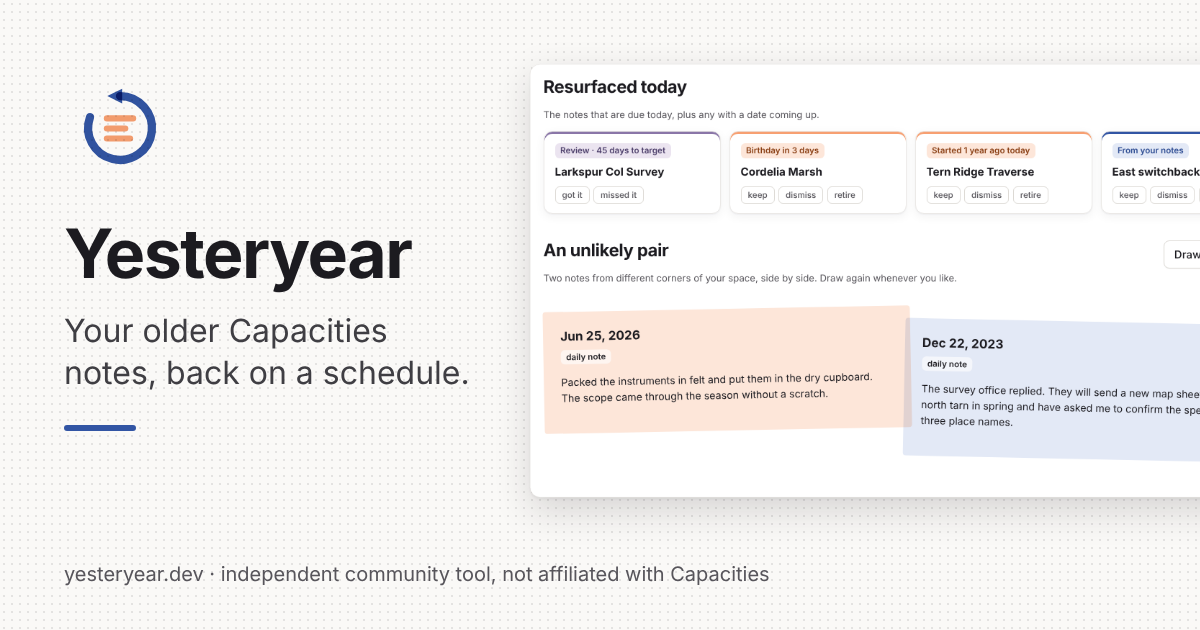
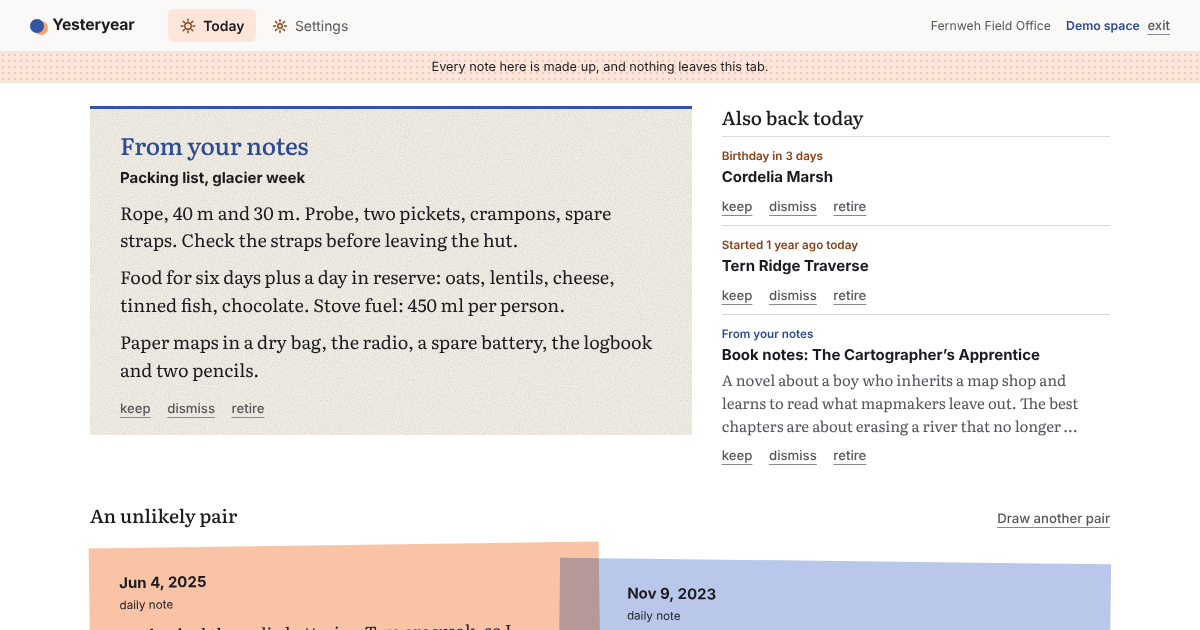
Retake the screenshots from the demo, with a script, and update the docs
Claude-Session: https://claude.ai/code/session_01GMmJz5doasHHswutde8X8S

diff --git a/README.md b/README.md
@@ -4,7 +4,7 @@
 
 **Your older Capacities notes, back on a schedule.**
 
-![Today in the synthetic Fernweh Field Office demo: four resurfaced notes with tinted source labels, and an unlikely pair shown as two overlapping prints in blue and apricot. A banner at the top says every note is made up.](docs/today.png)
+![Today in the made-up Fernweh Field Office demo: one resurfaced note set as a printed page with its text readable, the day's other notes beside it, and an unlikely pair shown as two overlapping prints in blue and apricot. A banner at the top says every note is made up.](docs/today.png)
 
 > **Disclaimer:** Yesteryear is an independent community tool. It is not
 > affiliated with, endorsed by, or sponsored by Capacities. Capacities is a
@@ -15,7 +15,7 @@ Notes go into Capacities easily and rarely come back out. Yesteryear reads your 
 - Notes you tag as worth seeing again return when they are due, a month or six months later.
 - Notes tied to a real date, like a talk or an exam, return more often as it gets closer.
 - Each day you also get one unlikely pair: two notes from different corners of your space, side by side.
-- Date views are extra ways to look back: on this day across the years, birthdays and project dates.
+- Dates are extra ways to look back: the same day in earlier years, birthdays and project dates.
 
 The daily mix draws partly at random, because a calendar can only bring back notes that already share a date.
 
@@ -41,7 +41,7 @@ No type ID, property ID or tag name is hardcoded. Yesteryear reads what your spa
 
 On your first visit, Yesteryear reads your types, date and status properties and tags, and offers what it found, such as "Your projects are Project" or "Birthdays come from Birthday". Names it recognises start ticked, and a guess from the shape of a type says so and starts unticked. Nothing changes without a tick, and anything you have already mapped is left alone.
 
-Anything you don't map is skipped. A space with nothing set up still gets On This Day, because every space has daily notes. If a name in your settings is missing from your space, the error says what was missing and lists what your space has.
+Anything you don't map is skipped. A space with nothing set up still gets the same day in earlier years, because every space has daily notes. If a name in your settings is missing from your space, the error says what was missing and lists what your space has.
 
 ## What you need in Capacities
 
@@ -49,21 +49,21 @@ Nothing. Daily notes alone are enough to start, and every space has them. A few 
 
 - **Projects with dates** bring anniversaries and target-date reminders. In Capacities, open **Settings → Object Types**, choose **+ New Type**, and pick a prebuilt type such as Project, or create your own.
 - **People with a birthday** bring birthday reminders. A type with a date property for the birthday is enough.
-- **Tags** mark the notes worth seeing again. Tag a note in Capacities and it appears under Recall.
+- **Tags** mark the notes worth seeing again. Tag a note in Capacities and it joins the schedule, listed under **What is coming** on Today.
 - **A type with no date?** Open the type's settings, choose **Add property**, and add a date.
 
 ## Getting started
 
 1. Open the site and click **Connect to Capacities**, or **Try the demo** first. The demo runs on a made-up space and needs no account.
 2. Approve access and pick which space to share. That choice happens on the Capacities side.
-3. The first time, you see what Yesteryear found in your space and tick what looks right. Then you land on **Today**: the day's resurfaced notes, with an unlikely pair underneath. It works with no setup, because daily notes alone are enough.
+3. The first time, you see what Yesteryear found in your space and tick what looks right. Then you land on **Today**: one resurfaced note you can read, the day's other notes, an unlikely pair, and the same day in earlier years. It works with no setup, because daily notes alone are enough.
 ![The first screen on a synthetic space: the projects and people it found, each with a tick and a line about what it is used for.](docs/setup.png)
 
-4. Each schedule has its own page: **Recall** helps you pick resurfacing tags, and **Learn** turns on with one click and holds your study sets. **Settings** holds the full mapping.
-5. Open **Preview** to see what tomorrow would bring back, before anything is written.
+4. There are two pages. **What is coming**, at the foot of Today, lists the schedule and helps you pick resurfacing tags. **Settings** holds the full mapping and the switch for studying toward a date.
+5. A response can be taken back: the note keeps its place, shows what you chose, and offers undo.
 6. If you like it, turn on the daily note section. On your first visit each day, a `Resurfaced` section is added to that day's note.
 
-On a phone you can add the site to your home screen so it opens on Today. A switch in the sidebar (at the bottom of the page on a phone) sets light, dark or automatic.
+On a phone you can add the site to your home screen so it opens on Today. A switch in Settings sets light, dark or automatic.
 
 ## Answering is optional
 
@@ -96,13 +96,11 @@ Learn is for the few notes you want to know well before a known date, like a tal
 - The gap between reviews is 0.15 times the days remaining, with limits, so reviews come closer together as the date gets near. The first review is always delayed a little.
 - When a date passes, the set's notes leave Learn and go back to Recall if they carry a Recall tag. Give the set a new date and the same notes study again, which suits an exam you sit more than once.
 - **Show notes** on a set lists what it holds right now, and each note in Learn names the set it studies toward.
-- A note can also take its own date from a date property, or be flagged from the Recall page with a date of its own.
+- A note can also take its own date from a date property, or be flagged from **What is coming** with a date of its own.
 
 Learn stays small: no cloze deletions and no grading ladders. For real memorisation, use [Anki](https://apps.ankiweb.net/). Learn exists for notes you already have, because moving notes into Anki is a chore of its own.
 
 There are no streaks, counters or reminders anywhere. Leaving everything untouched is a normal state.
-
-![The calendar: a year of days in the demo space, with a dot of ink for each day that has a daily note.](docs/calendar.png)
 
 ## Built on the official API
 

diff --git a/CHANGELOG.md b/CHANGELOG.md
@@ -39,6 +39,31 @@ All notable changes to Yesteryear are documented here. The format follows
 
 ### Changed
 
+- **Today opens on a note you can read.** One resurfaced note is set like a
+  printed page, with its text at reading size. When the note has a real date
+  behind it, its age is the headline ("1 year ago"). The day's other notes
+  follow as a short stack with one line of text each. Capacities gives no
+  created date for a note, so a note with no date keeps its label as the
+  headline.
+- **Two destinations: Today and Settings.** On a phone they are one bar at
+  the bottom, clear of the home indicator. The two-row menu is gone.
+- **The pair has the full width**, in two inks that overprint where the
+  sheets cross.
+- **The same day in earlier years sits under the pair.** It was the On This
+  Day page. The arrows still walk to neighbouring days. Years with nothing
+  written are left out.
+- **"What is coming" opens from Today as a sheet.** It was the Recall page,
+  with the same actions: bring forward, retire, learn this, restore.
+- **Studying toward a date is behind a setting**, off until you turn it on
+  under Settings. Its page opens from there. The demo starts with it off.
+- **Note text is set in Literata**, served from this site under the SIL Open
+  Font License. The Content-Security-Policy gains `font-src 'self'`, and the
+  CSP test checks that no font or image in the stylesheet comes from
+  anywhere else.
+- **The "Resurfaced section was added" notice** no longer shows in the demo,
+  where the note it names is made up.
+- **While the space loads**, a quiet outline of the page shows in place of
+  the "Reading the space…" line.
 - **One demo button.** The Connect screen shows "Try the demo"; the other
   demos sit under "More demos".
 - **A review answers "got it" or "not yet".** The second answer used a word
@@ -54,6 +79,10 @@ All notable changes to Yesteryear are documented here. The format follows
 
 ### Removed
 
+- **Preview is gone.** It repeated Today.
+- **The Calendar is gone.** A dot for every day written reads as a counter.
+- Old links to `#/preview`, `#/heatmap` and `#/on-this-day` open Today, and
+  `#/recall` opens "What is coming".
 - **Personal API tokens.** Sign-in is OAuth only, as Capacities asks of public
   integrations. The "Advanced: connect with a personal API token" section is
   gone from the Connect screen and the README. A token saved by an earlier
@@ -62,6 +91,15 @@ All notable changes to Yesteryear are documented here. The format follows
 
 ### Added
 
+- **Undo.** A response can be taken back. The note keeps its place, shows
+  what you chose, and offers undo beside it. A screen reader hears both the
+  response and the undo. Undo lasts for the visit: after a reload the note
+  shows what was chosen, and a retired note can still be restored under
+  "What is coming".
+- **The demo in one click.** "Try the demo" on the landing page opens the
+  demo directly. Opening `/app/` still shows the Connect screen.
+- **`npm run shots`** retakes every screenshot and the link preview image
+  from the demo space.
 - **One-click connect on the hosted site.** Capacities registered the OAuth client
   (`capacities_api_yesteryear`), and the hosted build now ships it in
   `.env.production`. Forks and self-hosted builds set their own id in

diff --git a/docs/design-redesign-plan.md b/docs/design-redesign-plan.md
@@ -42,9 +42,7 @@ Seen in the demo space on yesteryear.dev and in `docs/*.png`, 2026-11-18.
 - The Calendar came out of the navigation, because a dot for every day written reads as a
   counter. The view and its route still work. Whether it is deleted is decided on the mockup.
 
-Still showing the old wording or the old nav, until the screens are retaken in the build stage:
-`public/og.png`, `docs/today.png`, `docs/phone-today.png`, and the other `docs/*.png` that show
-the sidebar. The landing page and README still describe the calendar as a feature.
+The screens that still showed the old wording and the old nav were retaken in the build stage.
 
 ## Proposal (what the mockup will show)
 
@@ -114,8 +112,41 @@ person's own state page. Renaming them needs a read-both, write-new migration.
 | Review of the running app | Done | this file | 2026-11-18 |
 | Fix first: "not yet", Calendar out of the nav | Merged | pull request 13 | 2026-11-18 |
 | Mockup | Published | https://claude.ai/artifact/SUdDFbSwWTmFeLPW9FSN8v | 2026-11-19 |
-| Saj picks a direction | Waiting on Saj: ink treatment, note typeface, and each "what would move" item | | |
-| Build and pull request | Not started | | |
+| Saj picks a direction | Done. See "What Saj picked" below | | 2026-11-19 |
+| Build and pull request | Pull request open | see the repo's pull requests | 2026-11-19 |
+
+## What Saj picked (2026-11-19)
+
+- Ink treatment A, the quiet one. Note typeface: Literata.
+- Preview and the Calendar removed.
+- On This Day folded into Today. Recall as a sheet opened from Today.
+- Learn behind a setting, off by default.
+- The "Resurfaced section was added" notice hidden in the demo.
+- The landing page's demo link goes straight into the demo.
+
+## What the build did, against the measures
+
+- Note text inside the first screen on a 390 by 844 phone: yes, it starts at about 227px.
+  Before, the first note text was at 1,494px.
+- Two destinations in the navigation: yes, Today and Settings. Before, six.
+- The pair above the fold on a 1440 by 900 desktop: yes, it starts at about 545px. It was
+  already above the fold before, at 455px, so this one is "kept", not "gained".
+- The smoke suite is green, and it now checks the first and third measures on every run.
+
+Calls made in the build that the mockup did not settle:
+
+- Capacities gives no created date for a note. The age headline shows only for a note with a
+  real date behind it (a daily note lookback, an anniversary). Other notes use their label.
+- The lead note is one that has text to read, preferring one with an age.
+- The demo starts with studying toward a date turned off, like every new space.
+- Undo lasts for the visit. After a reload the note shows what was chosen, with no undo.
+- The colour theme switch lives in Settings at every size.
+
+Still open after the build:
+
+- Renaming the stored names `missedIt` and `missedItMultiplier` (see the finish items).
+- Farview: no shared token changed value, so nothing was mirrored. The print look (paper,
+  grain, Literata) is Yesteryear's own.
 
 ## Starting a session on this build
 

diff --git a/CONTRIBUTING.md b/CONTRIBUTING.md
@@ -15,6 +15,7 @@ npm test         # Vitest, runs entirely against made-up fixtures
 npm run dev      # Vite dev server
 npm run build    # tsc --noEmit + production build
 npm run smoke    # after a build: the built site in Chromium
+npm run shots    # after a build: retake every screenshot from the demo
 ```
 
 Node 18 or newer (the SDK's minimum). You don't need an OAuth client id for development. Without `VITE_CAPACITIES_CLIENT_ID`, the app runs in demo mode against the built-in fixture spaces, which is how most of it was built.
